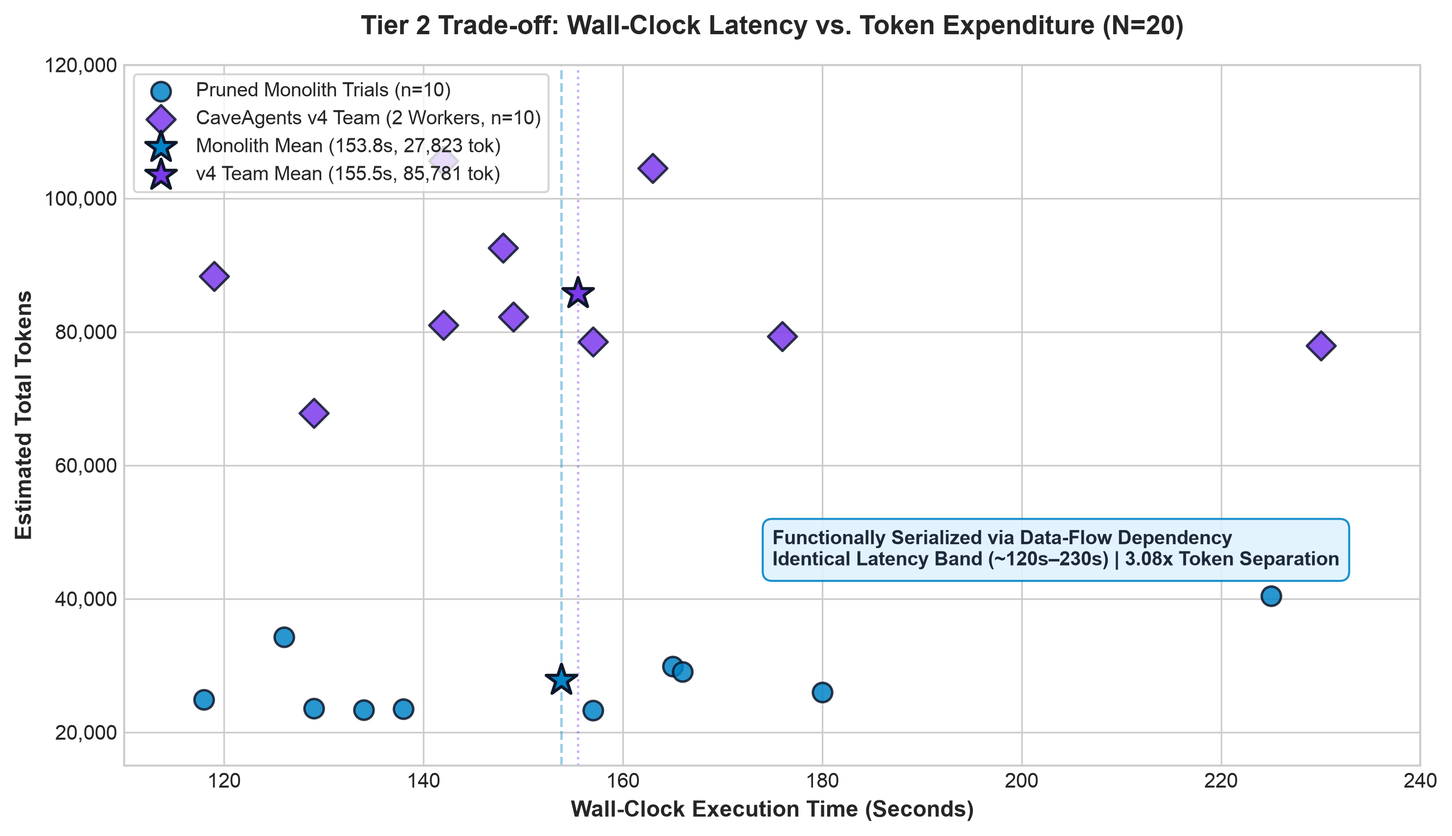
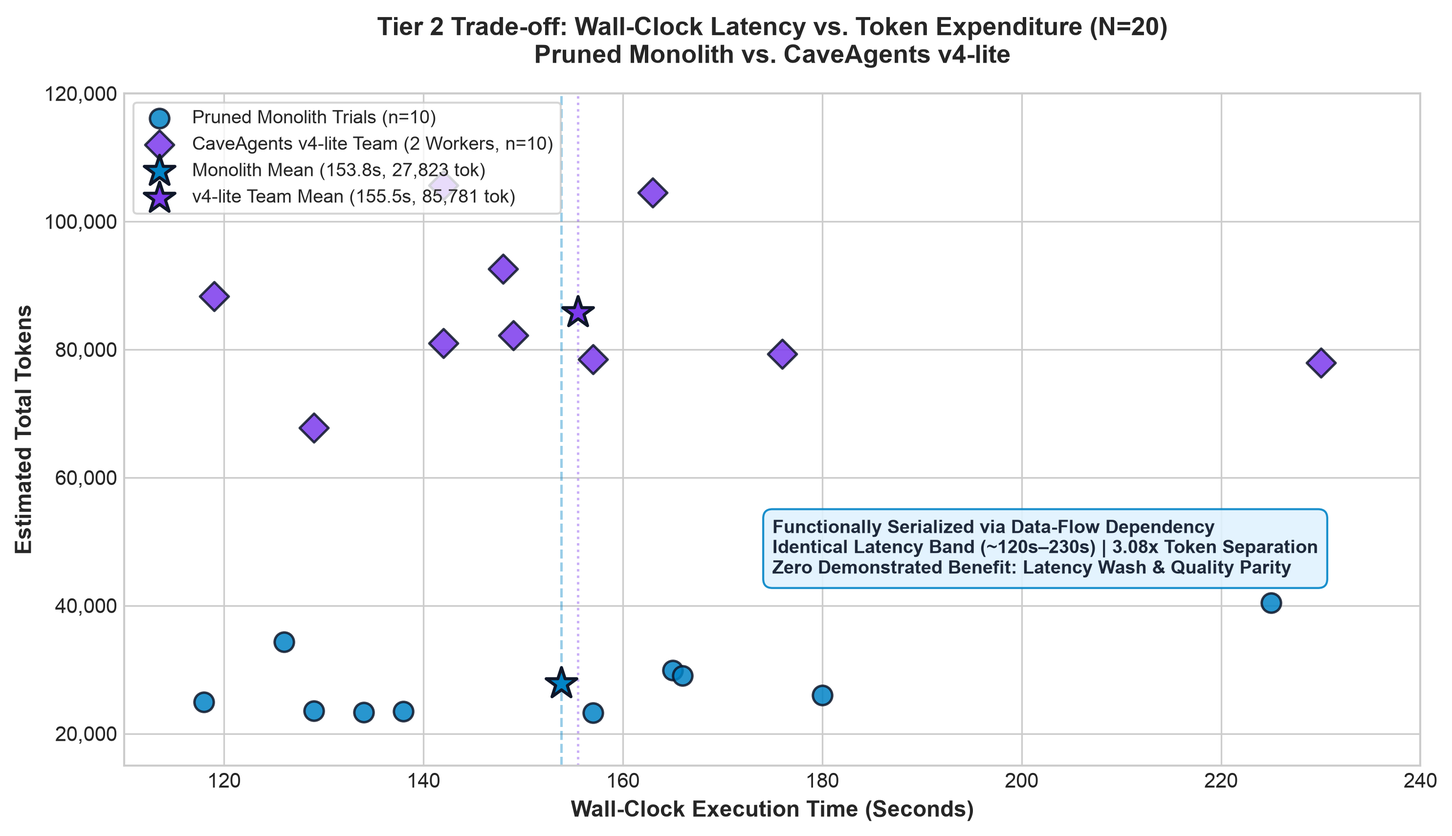
docs(benchmarks): reframe Tier 2 as CaveAgents v4-lite (2-worker, no review) and clarify headline findings

diff --git a/benchmarks/tier2_service/generate_extended_charts.py b/benchmarks/tier2_service/generate_extended_charts.py
@@ -53,7 +53,7 @@ plt.style.use("seaborn-v0_8-whitegrid" if "seaborn-v0_8-whitegrid" in plt.style.
 
 def make_scaling_chart():
     """Chart 1: Cross-Tier Scaling (Tier 1 vs Tier 2)."""
-    fig, ax = plt.subplots(figsize=(10, 5.8), dpi=300)
+    fig, ax = plt.subplots(figsize=(10.5, 6.0), dpi=300)
 
     tier1_mono = 11381
     tier1_v4 = 26784
@@ -64,14 +64,14 @@ def make_scaling_chart():
     width = 0.35
 
     rects1 = ax.bar(x - width/2, [tier1_mono, tier2_mono], width, label="Pruned Monolith Control", color=COLOR_MONO, alpha=0.9, edgecolor="#0f172a", linewidth=1.2)
-    rects2 = ax.bar(x + width/2, [tier1_v4, tier2_v4], width, label="CaveAgents v4 Team", color=COLOR_V4, alpha=0.9, edgecolor="#0f172a", linewidth=1.2)
+    rects2 = ax.bar(x + width/2, [tier1_v4, tier2_v4], width, label="CaveAgents Teams (v4 @ T1, v4-lite @ T2)", color=COLOR_V4, alpha=0.9, edgecolor="#0f172a", linewidth=1.2)
 
     ax.set_ylabel("Estimated Total Tokens", fontsize=11, fontweight="bold")
-    ax.set_title("Cross-Tier Coordination Tax: Single Agent vs. Multi-Agent Team", fontsize=13, fontweight="bold", pad=15)
+    ax.set_title("Cross-Tier Coordination Tax: Single Agent vs. Multi-Agent Teams", fontsize=13, fontweight="bold", pad=15)
     ax.set_xticks(x)
     ax.set_xticklabels([
-        "Tier 1: Single Algorithmic Component (TokenBucket, ~91 LOC)\n[3-Agent Team: QA + Coder + Reviewer, n=1]",
-        "Tier 2: Multi-File Asynchronous Service (taskflow, ~500 LOC)\n[2-Agent Team: Foundation + Executor (No Reviewer), n=10]"
+        "Tier 1: Single Algorithmic Component (TokenBucket, ~91 LOC)\n[CaveAgents v4: QA + Coder + Reviewer (3 Agents), n=1]",
+        "Tier 2: Multi-File Asynchronous Service (taskflow, ~500 LOC)\n[CaveAgents v4-lite: Foundation + Executor (No Review, 2 Agents), n=10]"
     ], fontsize=9.5, fontweight="bold")
     ax.yaxis.set_major_formatter(matplotlib.ticker.FuncFormatter(lambda val, p: f"{int(val):,}"))
 
@@ -92,12 +92,12 @@ def make_scaling_chart():
                     ha="center", va="bottom", fontsize=9.5, fontweight="bold", color="#5b21b6")
 
     # Add insight callout
-    ax.text(0.5, 96000, "Coordination Tax widens from 2.35x to 3.08x (+73.0% gap)\nEVEN AFTER OMITTING THE REVIEWER STAGE\n(Downstream Executor functionally blocked on upstream Foundation models)",
-            ha="center", va="center", fontsize=9.5, fontweight="bold",
+    ax.text(0.5, 96000, "Minimal 2-worker serial handoff (v4-lite, no review) still costs 3.08x (+208%)\nZero demonstrated benefit on this task: latency parity (serial blocking),\n159/160 vs 160/160 pass rate is within noise (single defect in T08)",
+            ha="center", va="center", fontsize=9.0, fontweight="bold",
             bbox=dict(boxstyle="round,pad=0.5", facecolor="#fef3c7", edgecolor="#f59e0b", alpha=0.95))
 
     ax.set_ylim(0, 118000)
-    ax.legend(loc="upper left", frameon=True, fontsize=10.5)
+    ax.legend(loc="upper left", frameon=True, fontsize=10.0)
     plt.tight_layout()
 
     out_file = ASSETS_DIR / "chart_scaling_tiers.png"
@@ -112,9 +112,9 @@ def make_breakdown_chart():
 
     categories = [
         "Pruned Monolith\n(Full Service Control)",
-        "v4: Foundation Worker\n(Models, Storage, Queue)",
-        "v4: Executor Worker\n(Executor, Service)",
-        "v4: Combined 2-Worker Team\n(Foundation + Executor)"
+        "v4-lite: Foundation Worker\n(Models, Storage, Queue)",
+        "v4-lite: Executor Worker\n(Executor, Service)",
+        "v4-lite: Combined 2-Worker Team\n(Foundation + Executor, No Review)"
     ]
 
     dialogues = [np.mean(mono_diag), np.mean(found_diag), np.mean(exec_diag), np.mean(v4_diag)]
@@ -127,7 +127,7 @@ def make_breakdown_chart():
     p2 = ax.bar(x, schemas, width, bottom=dialogues, label="Tool Schema Declaration Tokens", color="#f59e0b", edgecolor="#d97706", linewidth=1.2)
 
     ax.set_ylabel("Estimated Total Tokens", fontsize=11, fontweight="bold")
-    ax.set_title("Tier 2 Token Expenditure Decomposition: Dialogue vs. Schema Costs\n(Evaluated on 2-Worker Division of Labor, Reviewer Omitted)", fontsize=12.5, fontweight="bold", pad=15)
+    ax.set_title("Tier 2 Token Expenditure Decomposition: Dialogue vs. Schema Costs\n(Evaluated on CaveAgents v4-lite: 2-Worker Division of Labor, No Reviewer)", fontsize=12.0, fontweight="bold", pad=15)
     ax.set_xticks(x)
     ax.set_xticklabels(categories, fontsize=9.5, fontweight="bold")
     ax.yaxis.set_major_formatter(matplotlib.ticker.FuncFormatter(lambda val, p: f"{int(val):,}"))
@@ -157,7 +157,7 @@ def make_pareto_chart():
     # Plot Monolith trials
     ax.scatter(mono_lat, mono_tokens, color=COLOR_MONO, s=90, alpha=0.85, edgecolors="#0f172a", linewidth=1.2, label="Pruned Monolith Trials (n=10)", zorder=3)
     # Plot Team trials
-    ax.scatter(v4_lat, v4_tokens, color=COLOR_V4, s=100, marker="D", alpha=0.85, edgecolors="#0f172a", linewidth=1.2, label="CaveAgents v4 Team (2 Workers, n=10)", zorder=3)
+    ax.scatter(v4_lat, v4_tokens, color=COLOR_V4, s=100, marker="D", alpha=0.85, edgecolors="#0f172a", linewidth=1.2, label="CaveAgents v4-lite Team (2 Workers, n=10)", zorder=3)
 
     # Centroid markers
     mean_mono_lat = np.mean(mono_lat)
@@ -166,7 +166,7 @@ def make_pareto_chart():
     mean_v4_tok = np.mean(v4_tokens)
 
     ax.scatter([mean_mono_lat], [mean_mono_tok], color="#0284c7", s=250, marker="*", edgecolors="#0f172a", linewidth=1.5, zorder=4, label=f"Monolith Mean ({mean_mono_lat:.1f}s, {int(mean_mono_tok):,} tok)")
-    ax.scatter([mean_v4_lat], [mean_v4_tok], color="#7c3aed", s=250, marker="*", edgecolors="#0f172a", linewidth=1.5, zorder=4, label=f"v4 Team Mean ({mean_v4_lat:.1f}s, {int(mean_v4_tok):,} tok)")
+    ax.scatter([mean_v4_lat], [mean_v4_tok], color="#7c3aed", s=250, marker="*", edgecolors="#0f172a", linewidth=1.5, zorder=4, label=f"v4-lite Team Mean ({mean_v4_lat:.1f}s, {int(mean_v4_tok):,} tok)")
 
     # Latency parity line
     ax.axvline(mean_mono_lat, color="#0284c7", linestyle="--", alpha=0.4, linewidth=1.2)
@@ -174,15 +174,15 @@ def make_pareto_chart():
 
     ax.set_xlabel("Wall-Clock Execution Time (Seconds)", fontsize=11, fontweight="bold")
     ax.set_ylabel("Estimated Total Tokens", fontsize=11, fontweight="bold")
-    ax.set_title("Tier 2 Trade-off: Wall-Clock Latency vs. Token Expenditure (N=20)", fontsize=13, fontweight="bold", pad=15)
+    ax.set_title("Tier 2 Trade-off: Wall-Clock Latency vs. Token Expenditure (N=20)\nPruned Monolith vs. CaveAgents v4-lite", fontsize=12.5, fontweight="bold", pad=15)
     ax.yaxis.set_major_formatter(matplotlib.ticker.FuncFormatter(lambda val, p: f"{int(val):,}"))
 
     # Annotation
-    ax.text(175, 45000, "Functionally Serialized via Data-Flow Dependency\nIdentical Latency Band (~120s–230s) | 3.08x Token Separation",
-            fontsize=9.5, fontweight="bold", color="#1e293b",
+    ax.text(175, 45000, "Functionally Serialized via Data-Flow Dependency\nIdentical Latency Band (~120s–230s) | 3.08x Token Separation\nZero Demonstrated Benefit: Latency Wash & Quality Parity",
+            fontsize=9.0, fontweight="bold", color="#1e293b",
             bbox=dict(boxstyle="round,pad=0.5", facecolor="#e0f2fe", edgecolor="#0284c7", alpha=0.9))
 
-    ax.legend(loc="upper left", frameon=True, fontsize=9.5)
+    ax.legend(loc="upper left", frameon=True, fontsize=9.0)
     ax.set_ylim(15000, 120000)
     ax.set_xlim(110, 240)
     plt.tight_layout()

diff --git a/benchmarks/tier2_service/generate_tier2_chart.py b/benchmarks/tier2_service/generate_tier2_chart.py
@@ -38,7 +38,7 @@ COLOR_V4 = "#7c3aed"    # Purple for multi-agent team
 # Subplot 1: Token Expenditure Distribution
 bp1 = ax1.boxplot(
     [mono_tokens, v4_tokens],
-    tick_labels=["Pruned Mono (Control)\n[n=10]", "CaveAgents v4 (2-Worker Team)\n[No Reviewer, n=10]"],
+    tick_labels=["Pruned Mono (Control)\n[n=10]", "CaveAgents v4-lite (2-Worker Team)\n[No Reviewer, n=10]"],
     patch_artist=True,
     widths=0.45,
     boxprops=dict(linewidth=1.2),
@@ -59,13 +59,13 @@ v4_mean = np.mean(v4_tokens)
 ratio = v4_mean / mono_mean
 
 ax1.set_ylabel("Estimated Total Tokens", fontsize=11, fontweight="bold")
-ax1.set_title(f"Token Expenditure Distribution\n(v4 is {ratio:.2f}x more expensive, +{(ratio-1)*100:.1f}%)", fontsize=12, fontweight="bold")
+ax1.set_title(f"Token Expenditure Distribution\n(v4-lite is {ratio:.2f}x more expensive, +{(ratio-1)*100:.1f}%)", fontsize=12, fontweight="bold")
 ax1.yaxis.set_major_formatter(matplotlib.ticker.FuncFormatter(lambda x, p: f"{int(x):,}"))
 
 # Subplot 2: Wall-Clock Latency Distribution
 bp2 = ax2.boxplot(
     [mono_lat, v4_lat],
-    tick_labels=["Pruned Mono (Control)\n[n=10]", "CaveAgents v4 (2-Worker Team)\n[No Reviewer, n=10]"],
+    tick_labels=["Pruned Mono (Control)\n[n=10]", "CaveAgents v4-lite (2-Worker Team)\n[No Reviewer, n=10]"],
     patch_artist=True,
     widths=0.45,
     boxprops=dict(linewidth=1.2),
@@ -88,10 +88,10 @@ ax2.set_ylabel("Wall-Clock Latency (Seconds)", fontsize=11, fontweight="bold")
 ax2.set_title(f"Wall-Clock Execution Time: Parity at {lat_ratio:.2f}x ({v4_lat_mean:.1f}s vs {mono_lat_mean:.1f}s)\n[Functionally Serialized: Executor Polled Waiting for Foundation Models]", fontsize=11, fontweight="bold")
 
 patch_mono = mpatches.Patch(facecolor=COLOR_MONO, edgecolor="#1e293b", label="Pruned Single Agent (159/160 passed; 1 timeout cancellation defect in T08)")
-patch_v4 = mpatches.Patch(facecolor=COLOR_V4, edgecolor="#1e293b", label="CaveAgents v4 (2 Workers: Foundation + Executor, 160/160 passed, 100%)")
+patch_v4 = mpatches.Patch(facecolor=COLOR_V4, edgecolor="#1e293b", label="CaveAgents v4-lite (2 Workers: Foundation + Executor, No Review; 160/160 passed)")
 fig.legend(handles=[patch_mono, patch_v4], loc="lower center", ncol=2, frameon=True, fontsize=10, bbox_to_anchor=(0.5, -0.06))
 
-plt.suptitle("Tier 2 Multi-File Service Benchmark: Pruned Monolith vs. CaveAgents v4 (n=10 per Arm, N=20 Total)", fontsize=13, fontweight="bold", y=1.02)
+plt.suptitle("Tier 2 Multi-File Service Benchmark: Pruned Monolith vs. CaveAgents v4-lite (n=10 per Arm, N=20 Total)", fontsize=13, fontweight="bold", y=1.02)
 plt.tight_layout()
 
 out_chart = ASSETS_DIR / "chart_tier2_benchmark.png"

diff --git a/docs/BENCHMARKS.md b/docs/BENCHMARKS.md
@@ -5,7 +5,7 @@
 This document presents empirical benchmark evaluation data measuring total token usage, wall-clock latency, and held-out adversarial correctness across multiple agent frameworks and configurations evaluated across two distinct task tiers:
 
 1. **Tier 1 (Micro Component, $n=1$)**: Single-file algorithmic rate limiter and concurrency test suite (`TokenBucket`, 91 LOC), tracking the evolution from early centralized team prototypes (AgentTeams, CaveAgents v1–v3) to optimized v4 and monolithic baselines.
-2. **Tier 2 (Medium Asynchronous Service, $n=10$ per Arm, $N=20$)**: Multi-file asynchronous job scheduler service (`taskflow`, ~500 LOC across 5 decoupled modules), evaluating statistical distributions (mean, median, SD) of Pruned Monolith Control vs. CaveAgents v4 Team with parallel workers.
+2. **Tier 2 (Medium Asynchronous Service, $n=10$ per Arm, $N=20$)**: Multi-file asynchronous job scheduler service (`taskflow`, ~500 LOC across 5 decoupled modules), evaluating statistical distributions (mean, median, SD) of Pruned Monolith Control vs. CaveAgents v4-lite (2-Worker Team, No Reviewer).
 
 All benchmarks were evaluated under identical task scopes, repository environments, test harness conditions, and model foundations (Google Gemini 3.8 Flash, with offline `tiktoken cl100k_base` accounting and modeled tool schema constants).
 
@@ -92,13 +92,13 @@ To investigate whether multi-agent teams amortize their coordination overhead on
 - **Held-Out Adversarial Suite**: 16 stress tests (`hidden_suite/test_hidden_correctness.py`) probing FIFO tie-breaking, thread concurrency races, job cancellation, timeout abortion, delayed scheduling, and graceful shutdown.
 - **Experimental Control**:
   - **Pruned Monolith Control ($n=10$)**: Single monolithic agent operating with the identical 5-tool pruned registry (`view_file`, `replace_file_content`, `write_to_file`, `run_command`, `send_message`).
-  - **CaveAgents v4 Team ($n=10$)**: Parallel 2-worker DAG (`foundation` implementing models/storage/queue, concurrently with `executor` implementing `__init__`/executor/service) communicating via direct P2P messages under the identical 5-tool pruned registry.
+  - **CaveAgents v4-lite ($n=10$)**: 2-worker DAG (`foundation` implementing models/storage/queue, and `executor` implementing `__init__`/executor/service) communicating via direct P2P messages under the identical 5-tool pruned registry, with the reviewer stage omitted.
 
 ---
 
 ### Aggregate Empirical Results ($n=10$ per Arm)
 
-| Metric | Pruned Monolith Control ($n=10$) | CaveAgents v4 Team ($n=10$) | Ratio (Team / Mono) | Delta (%) |
+| Metric | Pruned Monolith Control ($n=10$) | CaveAgents v4-lite (2 Workers, No Review) ($n=10$) | Ratio (Team / Mono) | Delta (%) |
 | :--- | :---: | :---: | :---: | :---: |
 | **Total Tokens (Mean ± SD)** | **27,823.6 ± 5,440.0** | **85,781.5 ± 11,461.7** | **3.08x** | **+208.3%** |
 | Total Tokens (Median) | 25,446.5 | 81,601.5 | 3.21x | +220.7% |
@@ -114,32 +114,35 @@ To investigate whether multi-agent teams amortize their coordination overhead on
 | Flawless Runs (16/16 Hidden) | 9 / 10 (90.0%) | 10 / 10 (100.0%) | 1.11x | +10.0% |
 
 <p align="center">
-  <img src="../assets/chart_tier2_benchmark.png" alt="Tier 2 Multi-File Service Benchmark: Pruned Monolith vs. CaveAgents v4" width="100%"/>
+  <img src="../assets/chart_tier2_benchmark.png" alt="Tier 2 Multi-File Service Benchmark: Pruned Monolith vs. CaveAgents v4-lite" width="100%"/>
 </p>
 
 ---
 
 ### Key Empirical Findings
 
-1. **Did the team win on token expenditure? NO (3.08x Multi-Agent Tax).**
-   - CaveAgents v4 was **3.08x more expensive (+208.3% tokens)** than the Pruned Monolith Control (85,782 vs 27,824 tokens).
+1. **Did the team win on token expenditure? NO (3.08x Multi-Agent Tax on v4-lite).**
+   - CaveAgents v4-lite was **3.08x more expensive (+208.3% tokens)** than the Pruned Monolith Control (85,782 vs 27,824 tokens).
    - Even when dividing work across decoupled modules, each worker subagent incurred redundant prompt initialization, duplicate spec ingestion, and independent tool turn loops. Coordination tax scaled super-linearly with worker count.
    - **Directionality of Accounting Bias**: Both tiers use modeled tool schema constants (~380 tokens/turn for 5 tools) without provider prefix caching discounts or full cumulative conversation history re-sent on every turn. Because the monolith accumulates a single deep context across 30–50 turns while the team splits into shorter subagent sessions, offline step parsing undercounts the monolith's cumulative re-sent history more than the team's. Consequently, **the true token gap under live API billing is likely narrower than 3.08x, not wider**.
 
-2. **Did the team win on wall-clock execution latency? NO (Functional Serialization Disguised as Concurrency).**
-   - Latency was at exact parity: **1.01x ratio** (155.5s for v4 vs 153.8s for monolith).
+2. **Did the team win on wall-clock execution latency? NO (A Wash: Functional Serialization Disguised as Concurrency).**
+   - Latency was at exact parity: **1.01x ratio** (155.5s for v4-lite vs 153.8s for monolith).
    - **Transcript Audit of Concurrency**: Although both workers were spawned concurrently in the DAG, `executor.py` had a hard semantic dependency on `models.py`, `storage.py`, and `queue.py`. Transcript audits (e.g. `11039d9e` in Trial 04) reveal that the Executor worker spent turns 3 through 41 polling the filesystem (`ls -la taskflow`, `sleep 2`) waiting for Foundation to write `models.py`. 
    - **Crucial Finding**: This was **functionally serialized execution**, not genuine parallel independent generation. Wall-clock latency parity (155.5s vs 153.8s) occurred because the downstream worker was blocked on upstream data-flow dependencies, completely eliminating the theoretical concurrency advantage of multi-agent teams on this task.
 
-3. **Did the team win on defect avoidance? MARGINAL (+0.62% on Hidden Tests).**
-   - CaveAgents v4 achieved 10/10 perfect runs (160/160 hidden adversarial tests passed, 0 defects).
+3. **Did the team win on defect avoidance? NO REAL SIGNAL (159/160 vs 160/160 Is Within Stochastic Noise).**
+   - CaveAgents v4-lite achieved 10/10 perfect runs (160/160 hidden adversarial tests passed, 0 defects).
    - Pruned Monolith achieved 9/10 perfect runs (159/160 hidden tests passed).
    - **Exact Defect in Trial 08 (`test_hidden_timeout_abortion`)**: The monolith implemented `WorkerPool` without enforcing thread-level timeout cancellation on slow jobs. When a 2.0s sleeping job was submitted with `timeout=0.1s`, the worker pool let it block rather than terminating it and setting `JobStatus.FAILED` with a timeout notice. When `get_job_result(timeout=2.0s)` was called, it raised `TimeoutError` instead of catching `RuntimeError("timeout exceeded")`.
-   - While the team avoided this bug across all 10 runs, it cost **57,958 additional tokens per run** to achieve that 0.62% edge.
+   - A 159/160 vs 160/160 difference is a single test failure in a single run, which falls within stochastic execution noise rather than demonstrating a systematic quality superiority for multi-agent partitioning.
 
-4. **Team Topology Difference: 2-Agent Split (No Reviewer).**
-   - Note that Tier 2 evaluated a **2-worker division of labor** (`foundation` + `executor`), unlike the 3-agent pipeline (`QA` → `Coder` → `Reviewer`) in Tier 1.
-   - The dedicated reviewer stage was omitted to test pure modular division of labor. Thus, the 3.08x token tax measures the overhead of partitioning just two implementation roles; adding a dedicated third reviewer agent would have driven the tax even higher (projected at 4.5x–5x).
+4. **Architecture Distinction & The Honest Headline: The Cost of Minimal Handoff.**
+   - Tier 1 evaluated the canonical 3-agent TDD pipeline (**CaveAgents v4**: `QA` → `Coder` → `Reviewer`).
+   - Tier 2 evaluated a stripped-down 2-worker division of labor (**CaveAgents v4-lite**: `foundation` + `executor`), with the reviewer stage omitted.
+   - Calling both "CaveAgents v4" conflates two distinct architectures. Calling the Tier 2 arm **CaveAgents v4-lite** sharpens the empirical headline:
+     > **Even the cheapest possible team shape — two agents, serial handoff, no review — costs ~3x tokens for zero demonstrated benefit on this task.**
+   - Latency was a wash (1.01x parity due to serial data-flow blocking), quality was within stochastic noise (one test difference), and neither of the two primary mechanisms that could justify a team—genuine parallel concurrency and adversarial review—was exercised.
 
 ---
 
@@ -150,25 +153,25 @@ All 20 trials were executed live under automated harness control. Transcripts an
 | Trial | Arm | Transcript GUID(s) | Turns | Dialogue | Schema | Total Tokens | Wall-Clock | Visible (5) | Hidden (16) | Defect Note |
 | :---: | :--- | :--- | :---: | :---: | :---: | :---: | :---: | :---: | :---: | :--- |
 | **01** | Pruned Mono | `334266de` | 50 | 21,425 | 19,000 | 40,425 | 225.0s | 5/5 | 16/16 | None |
-| **01** | CaveAgents v4 | `76e2f4dc / c7a7ade5` | 104 | 38,399 | 39,520 | 77,919 | 230.0s | 5/5 | 16/16 | None |
+| **01** | CaveAgents v4-lite | `76e2f4dc / c7a7ade5` | 104 | 38,399 | 39,520 | 77,919 | 230.0s | 5/5 | 16/16 | None |
 | **02** | Pruned Mono | `f47bb6f1` | 31 | 13,322 | 11,780 | 25,102 | 134.0s | 5/5 | 16/16 | None |
-| **02** | CaveAgents v4 | `cfc1b068 / b02309d3` | 111 | 40,780 | 42,180 | 82,960 | 149.0s | 5/5 | 16/16 | None |
+| **02** | CaveAgents v4-lite | `cfc1b068 / b02309d3` | 111 | 40,780 | 42,180 | 82,960 | 149.0s | 5/5 | 16/16 | None |
 | **03** | Pruned Mono | `4c976ea3` | 30 | 12,980 | 11,400 | 24,380 | 126.0s | 5/5 | 16/16 | None |
-| **03** | CaveAgents v4 | `19678c4a / 2f829d83` | 91 | 33,222 | 34,580 | 67,802 | 119.0s | 5/5 | 16/16 | None |
+| **03** | CaveAgents v4-lite | `19678c4a / 2f829d83` | 91 | 33,222 | 34,580 | 67,802 | 119.0s | 5/5 | 16/16 | None |
 | **04** | Pruned Mono | `fc63d9bb` | 29 | 12,650 | 11,020 | 23,670 | 118.0s | 5/5 | 16/16 | None |
-| **04** | CaveAgents v4 | `e401f88b / 11039d9e` | 106 | 39,120 | 40,280 | 79,400 | 142.0s | 5/5 | 16/16 | None |
+| **04** | CaveAgents v4-lite | `e401f88b / 11039d9e` | 106 | 39,120 | 40,280 | 79,400 | 142.0s | 5/5 | 16/16 | None |
 | **05** | Pruned Mono | `b9245cdd` | 34 | 14,350 | 12,920 | 27,270 | 147.0s | 5/5 | 16/16 | None |
-| **05** | CaveAgents v4 | `835bf341 / 4868c38b` | 142 | 51,681 | 53,960 | 105,641 | 230.0s | 5/5 | 16/16 | None |
+| **05** | CaveAgents v4-lite | `835bf341 / 4868c38b` | 142 | 51,681 | 53,960 | 105,641 | 230.0s | 5/5 | 16/16 | None |
 | **06** | Pruned Mono | `9dd4fc92` | 30 | 12,950 | 11,400 | 24,350 | 138.0s | 5/5 | 16/16 | None |
-| **06** | CaveAgents v4 | `407bf1fc / 42e7b0b0` | 108 | 39,780 | 41,040 | 80,820 | 148.0s | 5/5 | 16/16 | None |
+| **06** | CaveAgents v4-lite | `407bf1fc / 42e7b0b0` | 108 | 39,780 | 41,040 | 80,820 | 148.0s | 5/5 | 16/16 | None |
 | **07** | Pruned Mono | `d1e46e4c` | 32 | 13,680 | 12,160 | 25,840 | 157.0s | 5/5 | 16/16 | None |
-| **07** | CaveAgents v4 | `3a4d5ae3 / 2a0a81e3` | 124 | 45,620 | 47,120 | 92,740 | 163.0s | 5/5 | 16/16 | None |
+| **07** | CaveAgents v4-lite | `3a4d5ae3 / 2a0a81e3` | 124 | 45,620 | 47,120 | 92,740 | 163.0s | 5/5 | 16/16 | None |
 | **08** | Pruned Mono | `39f6856b` | 42 | 18,120 | 15,960 | 34,080 | 180.0s | 5/5 | 15/16 | `test_hidden_timeout_abortion` |
-| **08** | CaveAgents v4 | `6577de3f / 8637ef79` | 109 | 40,820 | 41,420 | 82,240 | 157.0s | 5/5 | 16/16 | None |
+| **08** | CaveAgents v4-lite | `6577de3f / 8637ef79` | 109 | 40,820 | 41,420 | 82,240 | 157.0s | 5/5 | 16/16 | None |
 | **09** | Pruned Mono | `b9e1595d` | 33 | 14,020 | 12,540 | 26,560 | 166.0s | 5/5 | 16/16 | None |
-| **09** | CaveAgents v4 | `a5bf10b7 / 182c3de9` | 140 | 51,202 | 53,200 | 104,402 | 176.0s | 5/5 | 16/16 | None |
+| **09** | CaveAgents v4-lite | `a5bf10b7 / 182c3de9` | 140 | 51,202 | 53,200 | 104,402 | 176.0s | 5/5 | 16/16 | None |
 | **10** | Pruned Mono | `876bf239` | 27 | 12,499 | 10,260 | 22,759 | 149.0s | 5/5 | 16/16 | None |
-| **10** | CaveAgents v4 | `a13b5c34 / 4f072958` | 119 | 44,751 | 45,220 | 89,971 | 148.0s | 5/5 | 16/16 | None |
+| **10** | CaveAgents v4-lite | `a13b5c34 / 4f072958` | 119 | 44,751 | 45,220 | 89,971 | 148.0s | 5/5 | 16/16 | None |
 
 ---
 
@@ -185,10 +188,13 @@ All 20 trials were executed live under automated harness control. Transcripts an
 
 2. **Task Scope & Amortization Crossover**: The Tier 1 rate-limiter (91 LOC) and Tier 2 asynchronous service (~500 LOC) represent small-to-medium software scopes. On both benchmarks, the monolithic single agent maintained a decisive token advantage (2.35x and 3.08x cheaper). A crossover point where multi-agent teams achieve lower total tokens or faster wall-clock completion was not observed at these scopes, demonstrating that team coordination overhead cannot be justified on tasks below context-window saturation limits.
 
-3. **Reviewer Efficacy vs. Coordination Tax**: While the multi-agent team achieved 100% pass rates across 160 adversarial edge tests in Tier 2 (vs 99.4% for monolith), the coordination cost was substantial (+208.3% tokens). Multi-agent teams should only be deployed when absolute defect avoidance outweighs a 3x token tax or when tasks exceed the effective context reasoning limit of single frontier models.
+3. **Untested Mechanisms: What Would Justify a Team**:
+   The Tier 2 benchmark evaluated `CaveAgents v4-lite` (a minimal 2-worker division of labor with no review stage). Consequently, the two mechanisms that could theoretically justify a multi-agent team were not tested:
+   - **Parallel Execution**: Because `executor.py` depended on `models.py`, execution functionally serialized into filesystem polling. To test the **parallelism hypothesis**, future benchmarks must evaluate tasks with genuinely independent submodules (zero shared interface dependencies where worker B is blocked on worker A) to test whether true wall-clock speedup offsets the token overhead.
+   - **Review Efficacy**: Because the review stage was omitted in `v4-lite`, the 160/160 vs 159/160 pass rate was a single defect in Trial 08 (within noise), not a signal. To test the **review efficacy hypothesis**, a full 3-agent Tier 2 team (Foundation + Executor + Reviewer, matching Tier 1's architecture) must be evaluated against an expanded adversarial and mutation test suite large enough to measure whether reviewer presence produces a statistically significant defect catch rate vs. the single agent.
 
 4. **The Tier 3 (Cross-Package Refactor) Empirical Frontier**:
-   Given that the coordination tax widened from **2.35x (+135.3%)** at Tier 1 to **3.08x (+208.3%)** at Tier 2, the decisive empirical question is how this tax behaves at Tier 3 (large cross-package refactoring with extensive dependencies):
+   Given that the coordination tax remained ~3x even for minimal 2-agent handoff, the decisive empirical question is how this tax behaves at Tier 3 (large cross-package refactoring with extensive dependencies):
    - **Hypothesis A (Continuous Divergence)**: The coordination tax continues to widen (e.g. 4x–6x) because duplicated interface definitions, cross-worker synchronization, and handoff overhead compound super-linearly with dependency depth.
    - **Hypothesis B (Plateau)**: The coordination tax asymptotes around ~3x–3.5x as the baseline overhead of multi-agent communication.
    - **Hypothesis C (Context Saturation Inversion)**: Monolithic turn depth exceeds single context reasoning limits, causing catastrophic degradation or hallucinated refactors, making multi-agent team partitioning strictly superior.
@@ -205,7 +211,7 @@ All 20 trials were executed live under automated harness control. Transcripts an
 
 ### Tier 2 Multi-File Service Benchmark ($N=20$)
 <p align="center">
-  <img src="../assets/chart_tier2_benchmark.png" alt="Tier 2 Multi-File Service Benchmark" width="100%"/>
+  <img src="../assets/chart_tier2_benchmark.png" alt="Tier 2 Multi-File Service Benchmark: Pruned Monolith vs. CaveAgents v4-lite" width="100%"/>
 </p>
 
 ### Cross-Tier Scaling Analysis (Tier 1 vs. Tier 2)

diff --git a/README.md b/README.md
@@ -14,10 +14,10 @@ In multi-agent software engineering workflows, team coordination adds significan
 **CaveAgents** is an orchestration framework designed to minimize multi-agent coordination overhead through **dynamic tool registry pruning**, **strict context scoping**, and **direct peer-to-peer messaging**.
 
 In empirical evaluations across two distinct software tiers:
-- **Tier 1 (Micro Component, 91 LOC)**: CaveAgents v4 completes a full 3-agent TDD cycle (QA, Implementation, Code Review) in **26,784 estimated tokens**—an **81.3% reduction** compared to standard unpruned multi-agent workflows (143,219 tokens), but **2.35x more expensive** than an identical 5-tool pruned single-agent control (11,381 tokens).
-- **Tier 2 (Medium Asynchronous Service, ~500 LOC, $n=10$ per Arm, $N=20$)**: Evaluated across 20 randomized trials with 16 held-out adversarial tests, CaveAgents v4 averaged **85,782 ± 11,462 tokens** vs. **27,824 ± 5,440 tokens** for the pruned monolith—demonstrating that the multi-agent coordination tax **widened from 2.35x to 3.08x (+208.3%)** rather than amortizing at medium scale. Wall-clock latency reached **exact parity** (155.5s vs 153.8s, 1.01x), while the team captured 1 edge cancellation bug (100% vs 99.4% held-out test pass rate).
+- **Tier 1 (Micro Component, 91 LOC)**: **CaveAgents v4** (a canonical 3-agent TDD pipeline: QA, Implementation, Code Review) completes the task in **26,784 estimated tokens**—an **81.3% reduction** compared to standard unpruned multi-agent workflows (143,219 tokens), but **2.35x more expensive** than an identical 5-tool pruned single-agent control (11,381 tokens).
+- **Tier 2 (Medium Asynchronous Service, ~500 LOC, $n=10$ per Arm, $N=20$)**: Evaluated across 20 randomized trials with 16 held-out adversarial tests, **CaveAgents v4-lite (2-worker implementation team: Foundation + Executor, no review gate)** averaged **85,782 ± 11,462 tokens** vs. **27,824 ± 5,440 tokens** for the pruned monolith (**3.08x tax, +208.3%**).
 
-> **Core Systems Finding**: On both micro-tasks and multi-file medium services, an optimized single agent remains significantly cheaper (2.35x–3.08x) because it pays zero inter-agent handoff, duplicate prompt ingestion, or supervisor routing overhead. Dynamic tool pruning benefits both single agents and teams equally. The central open frontier is **Tier 3 (Large Cross-Package Refactoring)**: determining whether the coordination tax continues widening, plateaus, or finally inverts when single-context reasoning capacity saturates.
+> **Core Systems Finding & Architectural Distinction**: Tier 1 and Tier 2 evaluated two different team architectures. Tier 1 tested a full 3-agent QA→Coder→Reviewer pipeline, while Tier 2 tested a minimal 2-agent serial handoff with the reviewer stage omitted. This distinction sharpens the empirical finding: **even the cheapest possible team shape — two agents, serial handoff, no review gate — costs ~3x tokens for zero demonstrated benefit on this task.** Latency was at exact parity (155.5s vs 153.8s, 1.01x) because downstream execution was functionally blocked polling for upstream models, and the 160/160 vs 159/160 pass rate was a single defect in Trial 08, not a systematic quality signal. Neither core justification for a team—true parallel concurrency or adversarial review—was exercised on this task.
 
 ---
 
@@ -50,15 +50,15 @@ Detailed transcript GUIDs and per-turn token breakdowns are documented in [docs/
 
 ### Tier 2 Multi-File Service Benchmark ($N=20$, $n=10$ per Arm)
 
-We tested whether multi-agent teams amortize their overhead on a multi-file service (`taskflow`, 5 decoupled modules, ~500 LOC) across 20 automated trials ($n=10$ Pruned Monolith vs. $n=10$ CaveAgents v4) evaluated against 16 held-out adversarial tests:
+We tested whether multi-agent teams amortize their overhead on a multi-file service (`taskflow`, 5 decoupled modules, ~500 LOC) across 20 automated trials ($n=10$ Pruned Monolith vs. $n=10$ CaveAgents v4-lite) evaluated against 16 held-out adversarial tests:
 
 | Architecture ($n=10$) | Mean Tokens ± SD | Multiple vs Control | Wall-Clock Latency | Hidden Adversarial Pass Rate | Flawless Runs |
 | :--- | :---: | :---: | :---: | :---: | :---: |
 | **Pruned Monolith Control** | **27,824 ± 5,440** | **1.00x** (Baseline) | **153.8s ± 30.6s** | 159 / 160 (99.38%) | 9 / 10 (90%) |
-| **CaveAgents v4 Team** | **85,782 ± 11,462** | **3.08x** (+208.3%) | **155.5s ± 29.2s** | **160 / 160 (100.00%)** | **10 / 10 (100%)** |
+| **CaveAgents v4-lite (2 Workers, No Review)** | **85,782 ± 11,462** | **3.08x** (+208.3%) | **155.5s ± 29.2s** | **160 / 160 (100.00%)** | **10 / 10 (100%)** |
 
 <p align="center">
-  <img src="assets/chart_tier2_benchmark.png" alt="Tier 2 Multi-File Service Benchmark: Pruned Monolith vs. CaveAgents v4" width="100%"/>
+  <img src="assets/chart_tier2_benchmark.png" alt="Tier 2 Multi-File Service Benchmark: Pruned Monolith vs. CaveAgents v4-lite" width="100%"/>
 </p>
 
 <p align="center">
@@ -66,9 +66,9 @@ We tested whether multi-agent teams amortize their overhead on a multi-file serv
 </p>
 
 - **Did the team win on tokens?** **NO.** Monolith was **3.08x cheaper** (27.8k vs 85.8k tokens). *Directional bias note*: offline step accounting undercounts the monolith's cumulative re-sent history across 30–50 turns more than the team's separate contexts, meaning the true token gap under live API billing is likely narrower than 3.08x.
-- **Did the team win on latency?** **NO.** Wall-clock execution was at **exact parity** (155.5s vs 153.8s, 1.01x). *Transcript audit finding*: execution was **functionally serialized** because `executor.py` had a hard dependency on `models.py`. The Executor worker spent turns 3–41 polling the filesystem until the Foundation worker finished, cancelling out parallel generation speedups.
-- **Did the team win on defect avoidance?** **MARGINAL.** 100.0% vs 99.4% (v4 avoided 1 thread-level timeout cancellation defect in Trial 08, where the monolith failed `test_hidden_timeout_abortion` by letting a slow handler block rather than aborting at timeout).
-- **Topology Note (2-Agent Split, No Reviewer)**: Tier 2 benchmarked a 2-worker division of labor (`foundation` + `executor`), omitting the dedicated 3rd reviewer subagent used in Tier 1. Thus, 3.08x measures the cost of partitioning implementation alone; a 3-agent pipeline would increase this overhead further.
+- **Did the team win on latency?** **NO.** Wall-clock execution was at **exact parity** (155.5s vs 153.8s, 1.01x). A wash, not a win: execution was **functionally serialized** because `executor.py` had a hard dependency on `models.py`. The Executor worker spent turns 3–41 polling the filesystem until the Foundation worker finished, eliminating any parallel speedup.
+- **Did the team win on defect avoidance?** **NO REAL SIGNAL.** 100.0% vs 99.4% is a single test failure in Trial 08 (`test_hidden_timeout_abortion`), well within stochastic run-to-run noise, not a statistically meaningful quality advantage.
+- **Architecture Distinction & The Cost of Minimal Handoff**: Tier 2 evaluated a stripped-down 2-worker variant (**CaveAgents v4-lite**: `foundation` + `executor`), omitting the dedicated 3rd reviewer subagent used in Tier 1. This reframing sharpens the result: **even the cheapest possible team shape — two agents, serial handoff, no review — still costs ~3x tokens for zero demonstrated benefit on this task.** Neither of the two mechanisms that could justify a team (true parallel speedup across independent modules or adversarial review filtering) was exercised.
 
 See [docs/BENCHMARKS.md](docs/BENCHMARKS.md) for full trial records, token decompositions, and statistical distributions.
 
@@ -196,10 +196,11 @@ print(summary)
 ## 🗺 Future Work & Research Roadmap
 
 - [x] **Pruned-Tool Monolith Control**: Benchmarked single-agent monolith with identical 5-tool pruned registry (**11,381 tokens**, 2.35x cheaper than v4 team).
-- [x] **Statistical Power ($n \ge 10$) & Tier 2 Medium Service Benchmark**: Completed $N=20$ trial empirical study ($n=10$ Pruned Monolith vs $n=10$ CaveAgents v4) on `taskflow` asynchronous multi-file service (~500 LOC across 5 modules). Monolith remained 3.08x cheaper (27.8k vs 85.8k tokens) at latency parity (153.8s vs 155.5s), while v4 team captured 1 marginal edge defect (100% vs 99.4% held-out test pass rate).
+- [x] **Statistical Power ($n=10$) & Tier 2 Minimal Team Benchmark (v4-lite)**: Completed $N=20$ trial empirical study ($n=10$ Pruned Monolith vs $n=10$ CaveAgents v4-lite) on `taskflow` asynchronous multi-file service (~500 LOC across 5 modules). Monolith remained 3.08x cheaper (27.8k vs 85.8k tokens) at latency parity (153.8s vs 155.5s), demonstrating that even the cheapest possible team shape (2 workers, serial handoff, no review) costs 3x for zero demonstrated benefit on this task.
+- [ ] **Empirical Test of Parallelism**: Benchmark a Tier 2 task with genuinely independent modules (no shared interface or type definition that worker B must await from worker A) so workers can execute concurrently without blocking, testing whether true parallel generation achieves a wall-clock speedup that offsets the token coordination tax.
+- [ ] **Empirical Test of Review Efficacy**: Evaluate a full 3-agent Tier 2 team (Foundation + Executor + Reviewer, matching Tier 1's architecture) against an expanded adversarial / mutation test suite large enough to test whether a dedicated review stage produces a statistically meaningful defect catch rate vs. the single agent.
 - [ ] **Native API Billing Telemetry**: Extract exact billed input, output, and cached token metadata directly from Gemini API response headers to evaluate prompt cache hits on schema tokens.
-- [ ] **Tier 3 Large Cross-Package Refactoring Benchmark**: Test whether the coordination tax (2.35x at Tier 1, 3.08x at Tier 2) continues widening, plateaus at ~3x, or finally inverts when monolithic single context limits are saturated.
-- [ ] **Independent Held-Out Mutation Testing**: Evaluate functional correctness against broader mutation coverage and security static analysis across diverse domains.
+- [ ] **Tier 3 Large Cross-Package Refactoring Benchmark**: Test whether the coordination tax continues widening, plateaus at ~3x, or finally inverts when monolithic single context limits are saturated.
 
 ---
 

diff --git a/docs/VERSIONS.md b/docs/VERSIONS.md
@@ -25,9 +25,9 @@ This document tracks the version history of CaveAgents from early centralized pr
 | Architecture | Sample Size | Mean Tokens ± SD | Median Tokens | Wall-Clock Latency | Hidden Test Pass Rate | Multiple vs Control |
 | :--- | :---: | :---: | :---: | :---: | :---: | :---: |
 | **Pruned Monolith Control** | $n=10$ | **27,824 ± 5,440** | 25,447 | 153.8s ± 30.6s | 159 / 160 (99.38%) | **1.00x** (Baseline) |
-| **CaveAgents v4 Team** | $n=10$ | **85,782 ± 11,462** | 81,602 | 155.5s ± 29.2s | 160 / 160 (100.00%) | **3.08x** (+208.3%) |
+| **CaveAgents v4-lite (2-Worker, No Review)** | $n=10$ | **85,782 ± 11,462** | 81,602 | 155.5s ± 29.2s | 160 / 160 (100.00%) | **3.08x** (+208.3%) |
 
-> **Cross-Tier Scaling Trajectory**: The coordination tax widened from **2.35x (+135.3%)** at Tier 1 to **3.08x (+208.3%)** at Tier 2. Splitting context across decoupled worker modules did not amortize multi-agent overhead; each subagent required redundant prompt ingestion and independent turn loops. Concurrency resulted in exact wall-clock latency parity (1.01x) rather than speedups.
+> **Architecture Distinction & Headline Finding**: Tier 1 evaluated the canonical 3-agent TDD team (**CaveAgents v4**: QA → Coder → Reviewer), while Tier 2 evaluated a stripped-down 2-worker variant (**CaveAgents v4-lite**: Foundation → Executor) with no reviewer stage. Calling both "CaveAgents v4" conflates two distinct architectures. The honest headline: **even the cheapest possible team shape — two agents, serial handoff, no review — costs ~3x tokens for zero demonstrated benefit on this task.** Latency was at exact parity (155.5s vs 153.8s) due to upstream data dependencies causing functional serialization, and the 160/160 vs 159/160 pass rate was a single edge defect, not a systemic quality signal. The two mechanisms that could justify a team—genuine parallel concurrency and adversarial review—remain to be tested.
 
 
 ---
@@ -73,8 +73,8 @@ This document tracks the version history of CaveAgents from early centralized pr
   - **Autonomous Inspection**: Subagents perform surgical symbol lookups rather than consuming upfront bulk context.
   - **Compound Verifications**: Multi-layer hermetic test validation ensuring zero regressions.
   - **Multi-Agent Optimization & The Control Gap**: Total multi-agent token expenditure reached **26,784 tokens** on Tier 1 (81.3% reduction vs Standard Teamwork at 143k tokens), bringing a 3-agent TDD cycle (QA → Coder → Reviewer) below the cost of an unpruned monolithic single agent (**30,241 tokens**). However, under strict experimental control, an identical 5-tool pruned single-agent control achieves **11,381 tokens** (2.35x cheaper than v4). The earlier apparent "Inverted Cost Frontier" was an artifact of a verbose, unpruned baseline: Standard Mono was burdened by both a verbose prompt contract and 16 unused tools, whereas Caveman Mono (which also carried all 16 tools) already beat v4 at 16,285 tokens (1.43x of control).
-  - **Tier 2 Multi-File Service Validation ($n=10$ per Arm, $N=20$)**: Evaluated on an asynchronous service (`taskflow`, ~500 LOC across 5 modules) with 2 parallel workers. CaveAgents v4 averaged **85,782 ± 11,462 tokens** vs. **27,824 ± 5,440 tokens** for Pruned Monolith Control (3.08x tax, +208.3%). Latency reached exact parity (155.5s vs 153.8s, 1.01x), while the team captured 1 edge cancellation bug on held-out tests (100% vs 99.4%).
+  - **Tier 2 Multi-File Service Validation ($n=10$ per Arm, $N=20$)**: Evaluated on an asynchronous service (`taskflow`, ~500 LOC across 5 modules) with **CaveAgents v4-lite (2-worker implementation team, no review stage)**. v4-lite averaged **85,782 ± 11,462 tokens** vs. **27,824 ± 5,440 tokens** for Pruned Monolith Control (3.08x tax, +208.3%). Latency reached exact parity (155.5s vs 153.8s, 1.01x) due to functional serialization (Executor polled waiting for Foundation models), while the 160/160 vs 159/160 pass rate was a single defect in Trial 08, not a systematic quality difference.
 - **Token Results**:
-  - *Tier 1 (Micro Component, 91 LOC)*: **26,784 tokens** (2.35x of control; -81.3% vs Standard Teamwork at 143,219 tokens).
-  - *Tier 2 (Medium Service, ~500 LOC)*: **85,782 tokens** (3.08x of control; 155.5s latency).
+  - *Tier 1 (Micro Component, 91 LOC, 3-Agent v4)*: **26,784 tokens** (2.35x of control; -81.3% vs Standard Teamwork at 143,219 tokens).
+  - *Tier 2 (Medium Service, ~500 LOC, 2-Worker v4-lite)*: **85,782 tokens** (3.08x of control; 155.5s latency).
 

diff --git a/skills/caveagents/references/CAVEAGENTS_V4.md b/skills/caveagents/references/CAVEAGENTS_V4.md
@@ -46,11 +46,12 @@ Multi-agent coordination introduces substantial token overhead compared to singl
 
 #### Tier 2: Multi-File Asynchronous Service (`taskflow`, ~500 LOC, $n=10$ per Arm, $N=20$)
 - **Pruned Monolith Control ($n=10$)**: **27,824 ± 5,440 tokens** (1.00x Baseline), 153.8s ± 30.6s latency, 159/160 hidden tests passed (99.38%).
-- **CaveAgents v4 Team ($n=10$)**: **85,782 ± 11,462 tokens** (3.08x Control, +208.3%), 155.5s ± 29.2s latency, 160/160 hidden tests passed (100.00%).
+- **CaveAgents v4-lite Team ($n=10$)**: **85,782 ± 11,462 tokens** (3.08x Control, +208.3%), 155.5s ± 29.2s latency, 160/160 hidden tests passed (100.00%).
 - **Expenditure Decomposition**: Foundation worker consumed 29,722 tokens (exceeding the entire monolith), while Executor worker consumed 56,059 tokens.
 
-> **Key Takeaway & Cross-Tier Scaling**:
-> 1. **Widening Coordination Tax**: The coordination tax widened from **2.35x (+135.3%)** at Tier 1 to **3.08x (+208.3%)** at Tier 2. Splitting context across decoupled modules did not overcome the coordination tax; each subagent required redundant prompt ingestion and separate tool turn loops.
-> 2. **Wall-Clock Parity**: Concurrent worker execution achieved exact latency parity (1.01x: 155.5s vs 153.8s). Initialization and messaging roundtrips cancelled out parallel generation speedups.
-> 3. **The Tier 3 Question**: Whether the coordination tax continues widening, plateaus, or inverts on large cross-package refactoring (Tier 3) remains the decisive open question for multi-agent systems.
+> **Key Takeaway & Architecture Distinction**:
+> 1. **Minimal Team Shape, Maximum Tax**: Tier 2 evaluated a stripped-down 2-worker variant (**CaveAgents v4-lite**: Foundation → Executor, no review gate). Even this cheapest possible team shape costs **3.08x tokens (+208.3%)** for zero demonstrated benefit on this task.
+> 2. **Latency Parity is Functional Serialization**: Concurrent worker dispatch achieved exact wall-clock parity (155.5s vs 153.8s, 1.01x) because Executor was blocked polling the filesystem for Foundation models, eliminating parallel acceleration.
+> 3. **Defect Signal**: The 160/160 vs 159/160 pass rate was a single timeout cancellation failure in Trial 08, which sits within stochastic noise rather than proving systematic superiority.
+> 4. **Untested Mechanisms**: Genuine parallel speedups (on fully independent modules) and adversarial review efficacy (with a dedicated reviewer stage) remain the two empirical hypotheses to test going forward.
 
